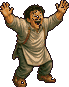
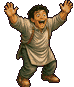
Point & click : correction des nervures noires sur les sprites (trous du détourage comblés), sprites reconstruits

diff --git a/js/pointclick/engine/game.js b/js/pointclick/engine/game.js
@@ -8,7 +8,8 @@ import { CHAPTERS } from '../scenes/index.js';
 import { loadLang, makeT } from './lang.js';
 import { hasSave, loadSave, writeSave, clearSave } from './save.js';
 import { makeAmbient } from './ambient.js';
-import { SPR, ITEMS } from '../data/sheets.js';
+import * as SH from '../data/sheets.js';
+const { SPR, ITEMS } = SH, ANIM = SH.ANIM || {}, HERO = SH.HERO || null;
 
 export const W = 480, H = 270;
 const VERBS = ['walk', 'take', 'use', 'talk', 'look'];
@@ -29,6 +30,7 @@ export class Game {
     await this.setLang(lang(), true);
     this.build();
     await Promise.all(Object.values(SPR).map(n => this.img(`assets/pointclick/spr/${n}.png`)));
+    try { this.animIdx = await (await fetch('assets/pointclick/anim/index.json')).json(); } catch { this.animIdx = {}; }
     this.ro = new ResizeObserver(() => this.fit()); this.ro.observe(this.root); this.fit();
     this.last = performance.now(); const tick = t => { if (!this.alive) return; this.raf = requestAnimationFrame(tick); const dt = Math.min(0.05, (t - this.last) / 1000); this.last = t; try { this.update(dt); this.draw(); } catch (e) { console.error(e); } };
     this.raf = requestAnimationFrame(tick);
@@ -40,6 +42,17 @@ export class Game {
     if (!first) { this.renderPanel(); this.renderLine(); if (this.titleEl) this.showTitle(); }
   }
   img(src) { return this.imgs[src] || (this.imgs[src] = new Promise(res => { const i = new Image(); i.onload = () => { this.imgs[src] = i; res(i); }; i.onerror = () => res(null); i.src = src; }).then(i => (this.imgs[src] = i))); }
+  /* image d'animation d'un personnage selon son état : repos, parole, déplacement */
+  frame(e) {
+    const A = ANIM[e.spr]; if (!A) return e.spr;
+    const st = e.goal ? 'walk' : e.talk ? 'talk' : 'idle', fr = A[st] || A.idle, fps = (A.fps && A.fps[st]) || 3;
+    return fr[Math.floor(this.now * fps + (e.ph || 0)) % fr.length];
+  }
+  /* image d'une zone du décor animée par images (assets/pointclick/anim/<id>_<n>.png), chargée à la demande */
+  animImg(id, i) {
+    const p = `assets/pointclick/anim/${id}_${i}.png`, im = this.imgs[p]; if (im && im.width) return im;
+    this._ld = this._ld || {}; if (!this._ld[p]) { this._ld[p] = 1; this.img(p).catch(() => {}); } return null;
+  }
   spr(name) { const i = this.imgs[`assets/pointclick/spr/${SPR[name] || name}.png`]; return i && i.width ? i : null; }
 
   /* ───────── interface HTML ───────── */
@@ -133,9 +146,10 @@ export class Game {
     const bg = await this.img('assets/pointclick/' + sc.bg); this.scene = sc; this.bg = bg;
     this.walk = new Walk(sc.walk.map(p => p.slice()), W, H);
     this.hot = sc.hot || []; this.amb = makeAmbient(sc.ambient);
-    this.ents = (sc.ents || []).map(e => ({ visible: true, ...e }));
+    await Promise.all((sc.ambient || []).filter(o => o.type === 'frames' && this.animIdx[o.id]).flatMap(o => Array.from({ length: this.animIdx[o.id].n }, (_, i) => this.img(`assets/pointclick/anim/${o.id}_${i}.png`).catch(() => {}))));
+    this.ents = (sc.ents || []).map(e => ({ visible: true, ph: Math.random() * 5, ...e }));
     const st = how.restored && this.st.hero ? this.st.hero : sc.start;
-    this.hero = { id: 'hero', who: 'hero', spr: 'hero.side', x: st.x, y: st.y, dir: st.dir || 'r', path: [], walkD: 0, hot: true, isHero: true, visible: true };
+    this.hero = { id: 'hero', who: 'hero', spr: HERO ? HERO.stand : 'hero.side', x: st.x, y: st.y, dir: st.dir || 'r', path: [], walkD: 0, hot: true, isHero: true, visible: true };
     this.ents.push(this.hero);
     this.clearBarks(); this.hover = null; this.renderPanel(); this.renderLine();
     if (this.started) snd.music(snd.musicOn !== false, sc.music || id);
@@ -294,11 +308,11 @@ export class Game {
       }
       const s = this.persp(h.y);
       h.flip = h.dir === 'l' && !h.front;
-      if (moving) { h.spr = Math.floor(h.walkD / (11 * s)) % 2 ? 'hero.stride' : 'hero.side'; h.bob = Math.abs(Math.sin(h.walkD / (11 * s) * Math.PI)) * 2.4 * s; if (this.now >= (h.stepT || 0)) { snd.step(); h.stepT = this.now + 0.3; } }
-      else { h.spr = h.front || h.talk ? 'hero.front' : 'hero.side'; h.bob = 0; }
+      if (moving) { h.spr = HERO ? HERO.walk[Math.floor(h.walkD / (8 * s)) % HERO.walk.length] : (Math.floor(h.walkD / (11 * s)) % 2 ? 'hero.stride' : 'hero.side'); h.bob = Math.abs(Math.sin(h.walkD / (11 * s) * Math.PI)) * (HERO ? 1.2 : 2.4) * s; if (this.now >= (h.stepT || 0)) { snd.step(); h.stepT = this.now + 0.3; } }
+      else { if (HERO) { const fr = h.talk ? HERO.talk : h.front ? HERO.idleFront : null; h.spr = fr ? fr[Math.floor(this.now * (h.talk ? 6 : 0.6) + 0.01) % fr.length] : HERO.stand; } else h.spr = h.front || h.talk ? 'hero.front' : 'hero.side'; h.bob = 0; }
     }
     this.ents.forEach(e => {
-      if (e.goal) { const [gx, gy, sp] = e.goal, dx = gx - e.x, dy = gy - e.y, d = Math.hypot(dx, dy), st = sp * dt; if (d <= st) { e.x = gx; e.y = gy; e.goal = null; } else { e.x += dx / d * st; e.y += dy / d * st; } }
+      if (e.goal) { const [gx, gy, sp] = e.goal, dx = gx - e.x, dy = gy - e.y, d = Math.hypot(dx, dy), st = sp * dt; if (d <= st) { e.x = gx; e.y = gy; e.goal = null; } else { e.x += dx / d * st; e.y += dy / d * st; if (ANIM[e.spr] && ANIM[e.spr].walk && Math.abs(dx) > 0.3) e.flip = dx < 0; } }
       if (e.talk && this.now >= this.nextBlip) { snd.blip(e.talk); this.nextBlip = this.now + 0.07; }
     });
     for (let i = this.barks.length - 1; i >= 0; i--) { const k = this.barks[i], e = this.ent(k.who); if (!e || this.now > k.end) { k.b.remove(); this.barks.splice(i, 1); } else { const [ax, ay] = this.headPos(e); this.placeBubble(k.b, ax, ay); } }
@@ -317,7 +331,7 @@ export class Game {
     if (this.fx.fade) { c.fillStyle = `rgba(0,0,0,${this.fx.fade.a})`; c.fillRect(0, 0, W, H); }
   }
   drawEnt(e) {
-    const im = this.spr(e.spr); if (!im) return; const c = this.ctx, s = e.scale ?? this.persp(e.y), w = im.width * s, h = im.height * s;
+    const im = this.spr(this.frame(e)) || this.spr(e.spr); if (!im) return; const c = this.ctx, s = e.scale ?? this.persp(e.y), w = im.width * s, h = im.height * s;
     c.save(); c.translate(Math.round(e.x), Math.round(e.y - (e.bob || 0)));
     if (e.rot) { c.translate(0, -h / 2); c.rotate(e.rot); c.translate(0, h / 2); }
     if (e.flip) c.scale(-1, 1);

diff --git a/js/pointclick/engine/ambient.js b/js/pointclick/engine/ambient.js
@@ -75,6 +75,44 @@ const KINDS = {
       }
     };
   },
+  /* zone du décor animée par images (sprites calculés par tools/gen_regions.py) : rivière, roue, mammouth, flammes, herbes */
+  frames(o) {
+    return {
+      draw(g, c, t) {
+        const A = g.animIdx && g.animIdx[o.id]; if (!A) return;
+        const seq = o.seq || [-1, ...Array.from({ length: A.n }, (_, i) => i), ...Array.from({ length: Math.max(0, A.n - 2) }, (_, i) => A.n - 2 - i)];
+        const i = seq[Math.floor((t + (o.offset || 0)) * (o.fps || 3)) % seq.length]; if (i < 0 || i >= A.n) return;
+        const im = g.animImg(o.id, i); if (im) c.drawImage(im, A.x, A.y);
+      }
+    };
+  },
+  /* oiseaux en sprites : 3 poses d'ailes (bird.1 à bird.3), qui traversent le ciel */
+  flock(o) {
+    const n = o.n ?? 4, R = rnd(o.seed || 5), bs = Array.from({ length: n }, () => ({ y: (o.y0 ?? 18) + R() * ((o.y1 ?? 70) - (o.y0 ?? 18)), sp: (o.speed ?? 14) * (0.8 + R() * 0.5), off: R() * 600, ph: R() * 6, dir: R() > 0.5 ? 1 : -1, sc: 0.5 + R() * 0.4 }));
+    return {
+      draw(g, c, t) {
+        bs.forEach(b => {
+          const im = g.spr('bird.' + ([1, 2, 3, 2][Math.floor(t * 7 + b.ph) % 4])); if (!im) return;
+          const x = ((t * b.sp + b.off) % 560) - 40, X = b.dir > 0 ? x : 480 - x, Y = Math.round(b.y + Math.sin(t * 0.8 + b.ph) * 4), w = im.width * b.sc, h = im.height * b.sc;
+          c.save(); c.translate(Math.round(X), Y); if (b.dir < 0) c.scale(-1, 1); c.drawImage(im, Math.round(-w / 2), Math.round(-h / 2), Math.round(w), Math.round(h)); c.restore();
+        });
+      }
+    };
+  },
+  /* fumée en sprites : volutes (puff) qui montent, grossissent et s'effacent */
+  puffs(o) {
+    const n = o.n ?? 7;
+    return {
+      draw(g, c, t) {
+        const im = g.spr('puff'); if (!im) return;
+        for (let i = 0; i < n; i++) {
+          const ph = (t * (o.speed ?? 0.25) + i / n) % 1, s = (o.s0 ?? 0.35) + ph * (o.s1 ?? 1.1), w = im.width * s, h = im.height * s, x = o.x + Math.sin(ph * 5 + i * 2) * 2 + ph * (o.wind ?? 10), y = o.y - ph * (o.h ?? 30);
+          c.globalAlpha = 0.75 * (1 - ph) * Math.min(1, ph * 6); c.drawImage(im, Math.round(x - w / 2), Math.round(y - h / 2), Math.round(w), Math.round(h));
+        }
+        c.globalAlpha = 1;
+      }
+    };
+  },
   /* dragon qui traverse le ciel, ailes battantes, de façon répétée ; cliquable */
   dragon(o) {
     const period = o.period ?? 34, y0 = o.y ?? 26, id = o.id || 'dragon';
@@ -85,7 +123,7 @@ const KINDS = {
       draw(g, c, t) {
         const tt = t + (o.offset ?? 6), cyc = (tt % period) / period, travel = o.travel ?? 0.7;
         if (cyc > travel) { pos = null; return; }
-        const p = cyc / travel, dirL = (o.dir ?? -1) < 0, flap = Math.floor(tt * 2.4) % 2 === 0, im = g.spr(flap ? 'dragon.up' : 'dragon.down'); if (!im) return;
+        const p = cyc / travel, dirL = (o.dir ?? -1) < 0, fi = Math.floor(tt * 4.2) % 4, flap = fi < 2, im = g.spr(g.spr('dragon.mid1') ? ['dragon.up', 'dragon.mid1', 'dragon.down', 'dragon.mid2'][fi] : (flap ? 'dragon.up' : 'dragon.down')); if (!im) return;
         const s = o.scale ?? 1, w = im.width * s, h = im.height * s, x = dirL ? 480 + w / 2 - p * (480 + w) : -w / 2 + p * (480 + w);
         const y = y0 + h / 2 + Math.sin(tt * 0.9) * 7 + (flap ? 0 : 2) + p * (o.drop ?? 14);
         pos = [x, y + h / 2, w, h];

diff --git a/easter eggs/pointclick/wip/sheets.animation.js b/easter eggs/pointclick/wip/sheets.animation.js
@@ -4,7 +4,8 @@ const f = (n, files) => files.forEach(x => (SPR[n + '.' + x] = n + '_' + x));
 export const SPR = {
   'hero.front': 'hero_front', 'bucket': 'bucket', 'honey': 'honey', 'merchant': 'merchant', 'merchant.bucket': 'merchant_bucket',
   'guard': 'guard', 'hen': 'hen', 'horse': 'horse', 'horse.ride': 'horse_ride', 'carrot': 'carrot', 'cheese': 'cheese',
-  'dragon.up': 'dragon_up', 'dragon.down': 'dragon_down',
+  'dragon.up': 'dragon_up', 'dragon.down': 'dragon_down', 'dragon.mid1': 'dragon_mid1', 'dragon.mid2': 'dragon_mid2',
+  'bird.1': 'bird_1', 'bird.2': 'bird_2', 'bird.3': 'bird_3', 'puff': 'puff',
   'giant': 'giant', 'giant.swing': 'giant_swing', 'nazim': 'nazim',
   'blind.pot': 'blind_pot', 'blind.sack': 'blind_sack', 'blind.hat': 'blind_hat', 'lit.pot': 'lit_pot', 'lit.sack': 'lit_sack', 'lit.hat': 'lit_hat'
 };

diff --git a/easter eggs/pointclick/tools/sprites_pixelize.py b/easter eggs/pointclick/tools/sprites_pixelize.py
@@ -3,7 +3,7 @@
 Usage : sprites_pixelize.py nom source.png hauteur_px [couleurs]   -> assets/pointclick/spr/<nom>.png
 Plusieurs images d'un même personnage : même facteur d'échelle via l'option --like <nom déjà traité>."""
 import sys, os, json
-from PIL import Image, ImageFilter, ImageEnhance
+from PIL import Image, ImageFilter, ImageEnhance, ImageDraw, ImageChops
 R = os.path.abspath(os.path.join(os.path.dirname(__file__), '..', '..', '..'))
 OUT = os.path.join(R, 'assets', 'pointclick', 'spr'); os.makedirs(OUT, exist_ok=True)
 SC = os.path.join(R, 'easter eggs', 'pointclick', 'work', 'scales.json')
@@ -12,12 +12,12 @@ SC = os.path.join(R, 'easter eggs', 'pointclick', 'work', 'scales.json')
 def key(im):
     im = im.convert('RGB'); px = im.load(); w, h = im.size
     bg = tuple(sum(px[x, y][i] for x, y in ((2, 2), (w - 3, 2), (2, h - 3), (w - 3, h - 3))) // 4 for i in range(3))
-    a = Image.new('L', (w, h), 255); ap = a.load()
+    a = Image.new('L', (w, h), 255); ap = a.load(); dm = Image.new('L', (w, h), 0); dp = dm.load()
     for y in range(h):
         for x in range(w):
             r, g, b = px[x, y]; d = abs(r - bg[0]) + abs(g - bg[1]) + abs(b - bg[2])
-            ap[x, y] = 0 if d < 70 else (255 if d > 150 else int((d - 70) / 80 * 255))
-    return im, a
+            ap[x, y] = 0 if d < 70 else (255 if d > 150 else int((d - 70) / 80 * 255)); dp[x, y] = 255 if d >= 30 else 0
+    return im, a, dm
 
 
 def main():
@@ -25,8 +25,11 @@ def main():
     if '--bright' in a: i = a.index('--bright'); bright = float(a[i + 1]); del a[i:i + 2]
     if '--like' in a: i = a.index('--like'); like = a[i + 1]; del a[i:i + 2]
     name, src, th = a[0], a[1], int(a[2]); ncol = int(a[3]) if len(a) > 3 else 56
-    im, al = key(Image.open(src))
-    al = al.point(lambda v: 255 if v > 120 else 0).filter(ImageFilter.MinFilter(3))        # rogne la frange magenta
+    im, al, dm = key(Image.open(src))
+    al = al.point(lambda v: 255 if v > 120 else 0)
+    # comble les trous du masque (peau proche du fond magenta) : sinon le contour sombre dessine des « nervures » noires dans le corps
+    fl = al.copy(); ImageDraw.floodfill(fl, (0, 0), 128); al = ImageChops.lighter(al, ImageChops.multiply(fl.point(lambda v: 255 if v == 0 else 0), dm))   # seuls les trous qui ne sont pas du fond
+    al = al.filter(ImageFilter.MinFilter(3))                                                   # rogne la frange magenta
     bb = al.getbbox(); im = im.crop(bb); al = al.crop(bb)
     sc = json.load(open(SC)) if os.path.exists(SC) else {}
     f = sc[like] if like else th / im.size[1]
